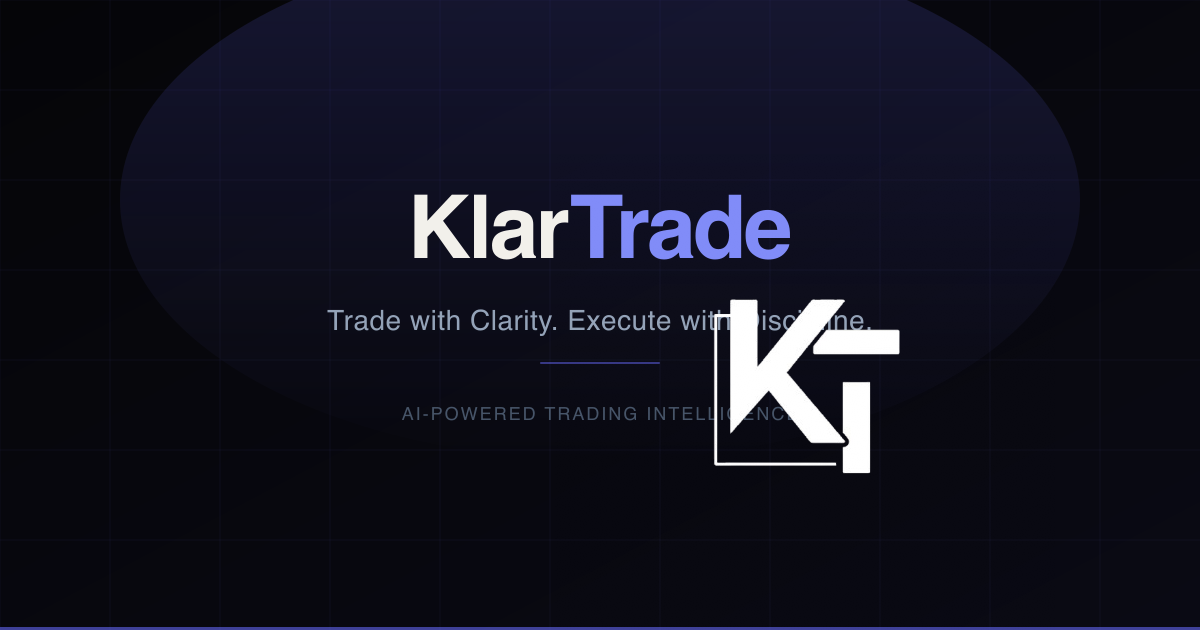
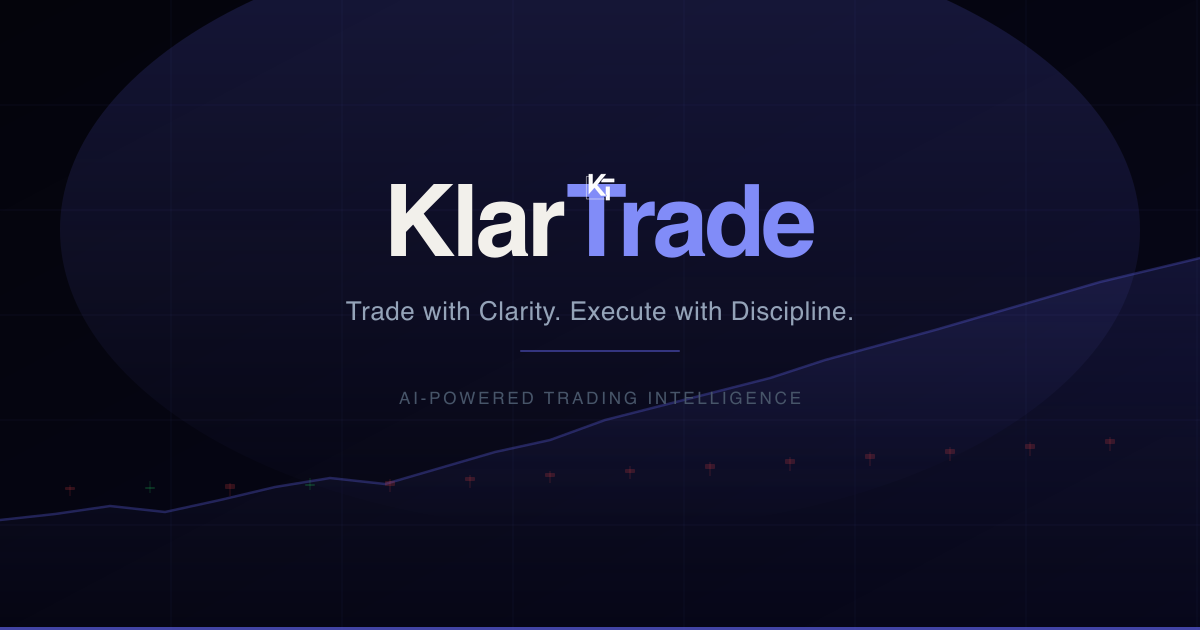
Add complete OG/Twitter/SEO meta tags and regenerate og-image

diff --git a/app/layout.tsx b/app/layout.tsx
@@ -15,33 +15,38 @@ const plusJakarta = Plus_Jakarta_Sans({
 });
 
 const BASE_URL = "https://klartrade.com";
+const OG_TITLE = "KlarTrade — Trade with Clarity, Not Emotion";
+const OG_DESCRIPTION =
+  "The AI-powered trading journal that builds discipline, tracks your edge, and protects your mental game.";
+const OG_IMAGE = `${BASE_URL}/og-image.png`;
 
 export const metadata: Metadata = {
   metadataBase: new URL(BASE_URL),
-  title: "KlarTrade — Trade with Clarity, Not Emotion",
-  description:
-    "The AI-powered trading platform that builds unbreakable discipline, manages risk intelligently, and reviews your psychology — so every decision is driven by your edge, not your fear.",
-  keywords: ["trading", "AI", "discipline", "risk management", "trading journal", "psychology"],
+  title: OG_TITLE,
+  description: OG_DESCRIPTION,
+  keywords: [
+    "trading journal",
+    "prop firm",
+    "trading discipline",
+    "trading analytics",
+    "forex journal",
+  ],
+  robots: { index: true, follow: true },
+  alternates: { canonical: BASE_URL },
   openGraph: {
-    title: "KlarTrade — Trade with Clarity, Not Emotion",
-    description: "Trade with Clarity. Execute with Discipline. AI-powered trading intelligence for serious traders.",
+    title: OG_TITLE,
+    description: OG_DESCRIPTION,
     url: BASE_URL,
     siteName: "KlarTrade",
     type: "website",
-    images: [
-      {
-        url: "/og-image.png",
-        width: 1200,
-        height: 630,
-        alt: "KlarTrade — Trade with Clarity, Not Emotion",
-      },
-    ],
+    images: [{ url: OG_IMAGE, width: 1200, height: 630, alt: OG_TITLE }],
   },
   twitter: {
     card: "summary_large_image",
-    title: "KlarTrade — Trade with Clarity, Not Emotion",
-    description: "Trade with Clarity. Execute with Discipline. AI-powered trading intelligence for serious traders.",
-    images: ["/og-image.png"],
+    title: OG_TITLE,
+    description: OG_DESCRIPTION,
+    site: "@klartrade",
+    images: [OG_IMAGE],
   },
 };
 
